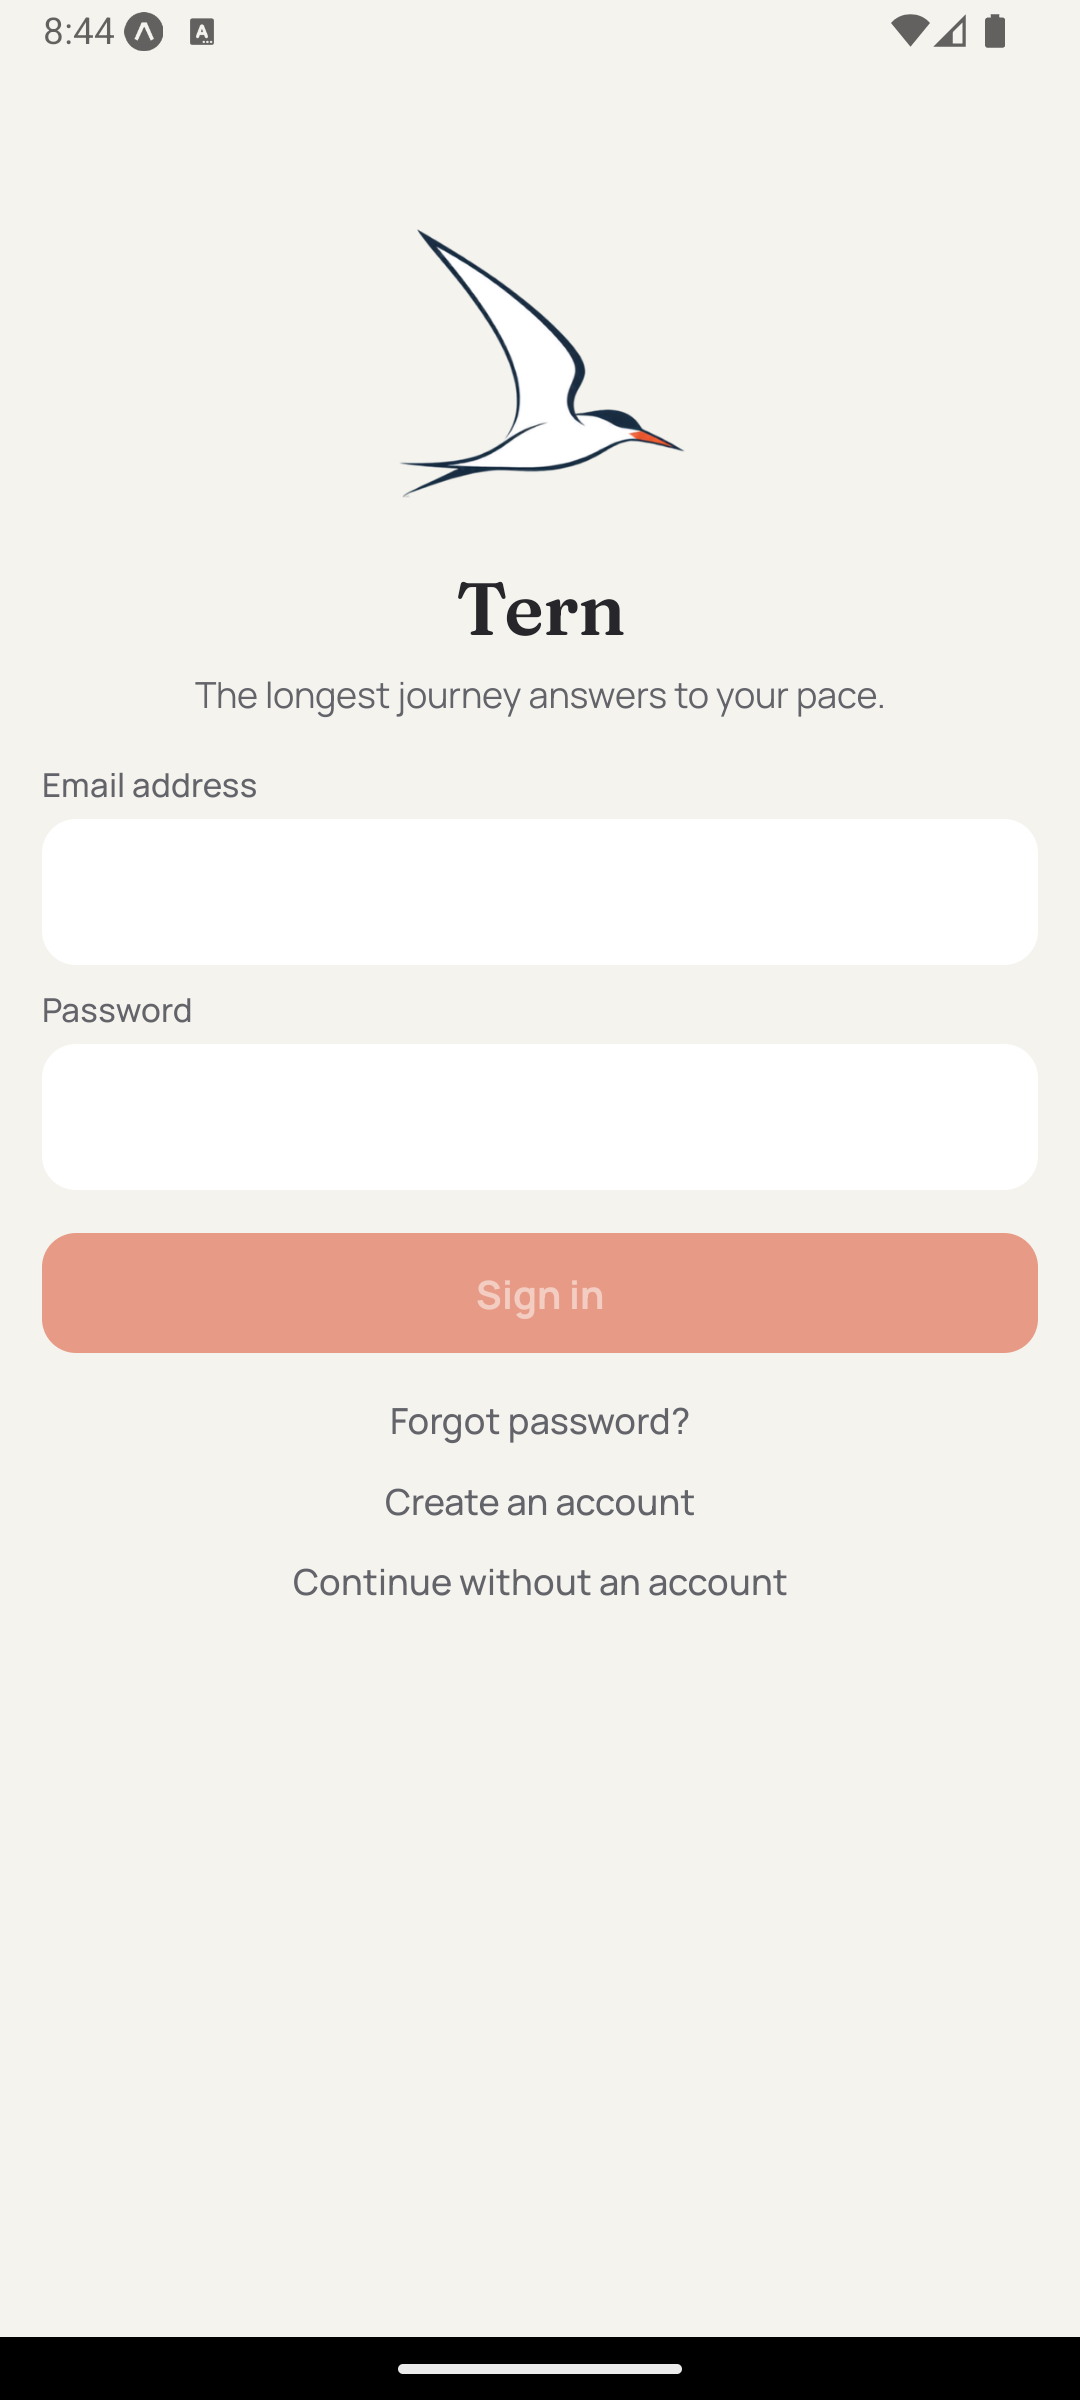
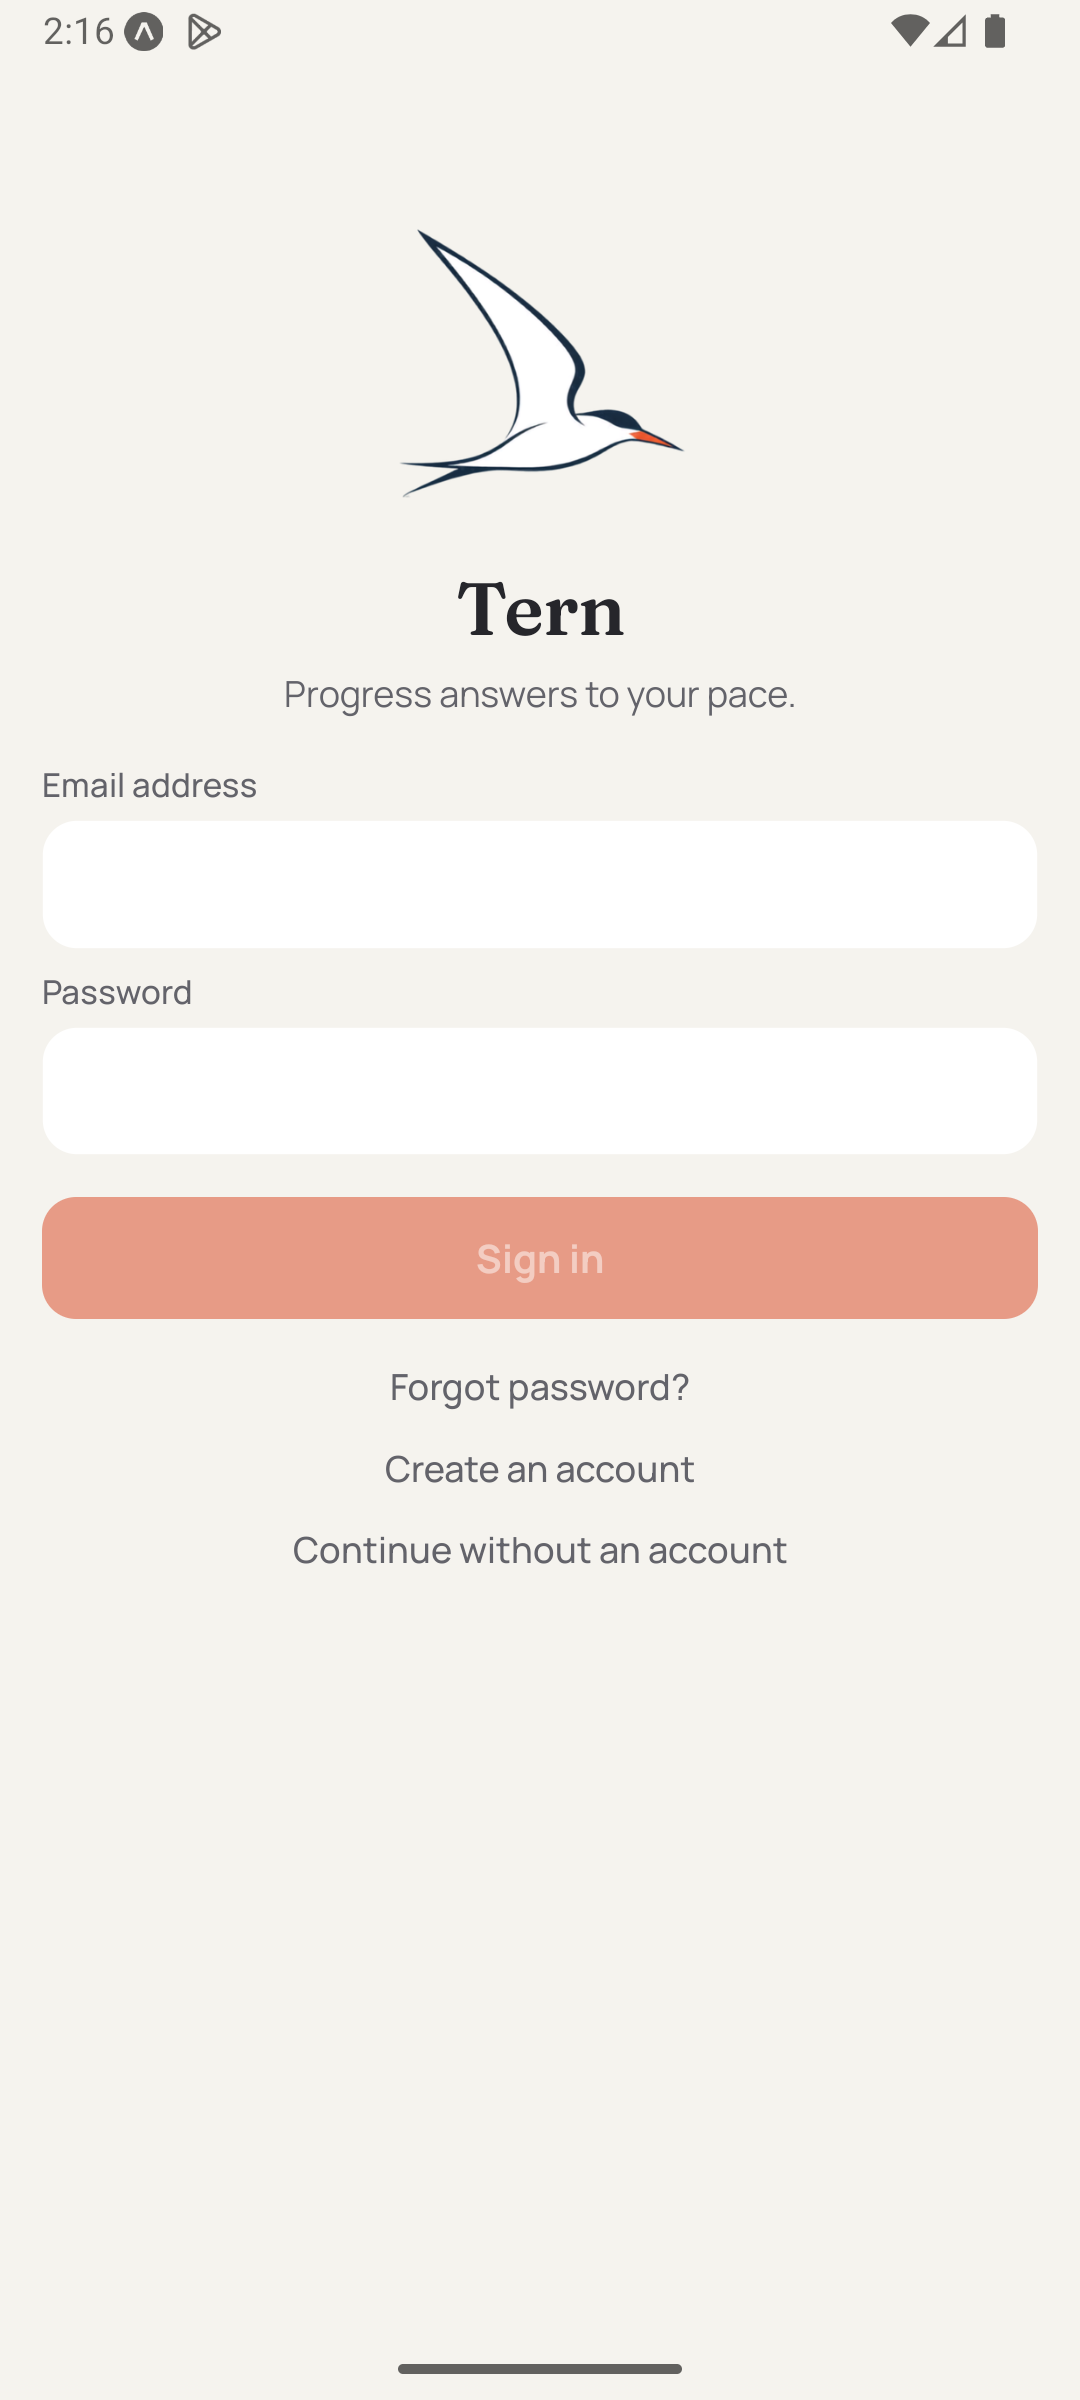
refactor: updating tagline and readme

diff --git a/src/auth/login/LoginScreen.tsx b/src/auth/login/LoginScreen.tsx
@@ -34,7 +34,7 @@ export default function LoginScreen({
     <AuthLayout
       showMark
       title='Tern'
-      subtitle='The longest journey answers to your pace.'
+      subtitle='Progress answers to your pace.'
     >
       <AuthBanner variant='error' message={error || null} />
       <AuthBanner variant='info' message={infoMessage ?? null} />

diff --git a/README.md b/README.md
@@ -1,19 +1,15 @@
 # Tern
 
-**Move, eat, rest. A kinder tracker for the life you're actually living.**
+**Progress answers to your pace.**
 
 [![CI](https://github.com/a-thread/tern/actions/workflows/ci.yml/badge.svg)](https://github.com/a-thread/tern/actions/workflows/ci.yml)
-![Platform: Android](https://img.shields.io/badge/platform-Android-3DDC84)
+![Platform: Android | iOS](https://img.shields.io/badge/platform-Android%20%7C%20iOS-3DDC84)
 ![Expo SDK 54](https://img.shields.io/badge/Expo-SDK%2054-000020)
 ![TypeScript](https://img.shields.io/badge/TypeScript-strict-3178C6)
 
-Tern is a health tracker for steps, food, weight, water and mood, inspired by the Arctic
-tern, the bird with the longest regular migration on Earth. Each day you show up, your
-tern travels a little further along its journey.
+Tern is a health tracker built around movement and inspired by the Arctic tern, the bird with the longest regular migration on Earth. Each day you show up, your tern travels a little further along its journey.
 
-Waypoints are earned for things within reach: meeting your step goal, logging your meals,
-taking a rest day. **Weight and calories never earn or lose anything.** They're there to
-inform you, with no verdict attached.
+Progress is measured in "Waypoints", which you earn by showing up for the habits YOU choose. As you keep at them, your tern moves along its route, reaching milestones on the way. Waypoints are never about the numbers: a weigh-in earns the same whatever the scale says, and calorie totals don't earn or cost you anything.
 
 | ![The Today tab](assets/store/home.png) | ![The Food tab](assets/store/food.png) | ![The Journey tab](assets/store/journey.png) | ![The Trends tab](assets/store/trends.png) |
 | :-------------------------------------: | :------------------------------------: | :------------------------------------------: | :----------------------------------------: |
@@ -21,30 +17,56 @@ inform you, with no verdict attached.
 
 ## Features
 
-- **Rewards for behavior only.** Waypoints are milestones on a map. Reach the Weddell Sea
-  and your tern turns north for home, then sets off again, so the journey never runs out.
-- **Rest counts.** A rest day counts as showing up and the streak carries through it.
-- **Optional numbers.** Hide calories, turn off "remaining today", turn weight off.
-  Nothing warns you for going over, and exercise never earns food back.
-- **Food without a verdict.** Search everyday foods (USDA) and packaged products (Open
-  Food Facts), scan barcodes, save meals, or re-log yesterday's dinner in a tap.
-- **Steps from Health Connect.** Read on the device and never uploaded.
-- **Your data is yours.** No ads, nothing sold. Export everything as JSON, or delete your
-  data or account from Settings. No account is needed: without one, everything is kept
-  on the phone.
+Track all the things that help you meet your goals:
+
+- **Movement**
+  - set a daily goal and connect Health Connect or Apple Health
+  - log workouts and how hard they felt
+  - take rest days that preserve your momentum
+- **Food**
+  - track calories, macros or neither!
+    - nothing warns you for going over, and exercise never earns food back
+  - control how food is displayed:
+    - foods get a NOVA processing level as information, never a judgment
+    - decide whether to display NOVA processing numbers, colors or neither
+    - hide calories so that numbers don't keep you from showing up
+  - search everyday foods (USDA) and packaged products (Open Food Facts)
+  - scan a barcode, save meals, or re-log yesterday's dinner in a tap
+  - opt into check-ins after meals to see how each one leaves you feeling
+- **Weight** (optional)
+  - track daily, weekly or neither!
+  - skip a weigh-in if you need to
+  - gain, lose or hold steady: your log is there for whatever goal you set
+- **Water** (optional)
+  - customizable daily goal tracking
+  - reminders on a schedule that suits you
+- **Mood and stress** (optional)
+  - a quick daily check-in to see how you're doing over time
+- **Medication** (optional)
+  - add as many as you need
+  - customize timing to daily or weekly
+  - control reminders
+- **Waypoints for showing up**
+  - earned for showing up for the habits you choose
+  - reach the Weddell Sea and your tern heads home, then sets off again, so the journey never ends
+- **Your data is yours**
+  - no ads, nothing sold
+  - no account required: stay anonymous and keep everything on your device
+  - create an account with Tern Plus to keep your data on a secure server
+  - export everything, or delete it any time
 
 ## Tech stack
 
-| Layer      | Choice                                                                   |
-| ---------- | ------------------------------------------------------------------------ |
-| App        | [Expo](https://expo.dev) SDK 54, React Native 0.81, React 19, TypeScript |
-| Navigation | React Navigation 7 (bottom tabs + native stack)                          |
-| Backend    | [Supabase](https://supabase.com) (Postgres, auth, row-level security)    |
-| Steps      | Android Health Connect via `react-native-health-connect`                 |
-| Food data  | Open Food Facts, USDA FoodData Central                                   |
-| Purchases  | [RevenueCat](https://www.revenuecat.com) (`react-native-purchases`)      |
-| Tests      | Jest, `jest-expo`, React Native Testing Library                          |
-| Builds     | EAS Build, triggered from GitHub Actions                                 |
+| Layer      | Choice                                                                                              |
+| ---------- | --------------------------------------------------------------------------------------------------- |
+| App        | [Expo](https://expo.dev) SDK 54, React Native 0.81, React 19, TypeScript                            |
+| Navigation | React Navigation 7 (bottom tabs + native stack)                                                     |
+| Backend    | [Supabase](https://supabase.com) (Postgres, auth, row-level security)                               |
+| Steps      | Health Connect (`react-native-health-connect`), Apple Health (`@kingstinct/react-native-healthkit`) |
+| Food data  | Open Food Facts, USDA FoodData Central                                                              |
+| Purchases  | [RevenueCat](https://www.revenuecat.com) (`react-native-purchases`)                                 |
+| Tests      | Jest, `jest-expo`, React Native Testing Library                                                     |
+| Builds     | EAS Build, triggered from GitHub Actions                                                            |
 
 With no Supabase keys the app runs against an in-memory backend seeded with sample data,
 so you can work on the UI without setting anything up.
@@ -72,12 +94,12 @@ Health steps need a development client instead of Expo Go: Health Connect on And
 
 Copy [.env.example](.env.example) to `.env` (gitignored). Every variable is optional.
 
-| Variable                        | Purpose                                                            |
-| ------------------------------- | ------------------------------------------------------------------ |
-| `EXPO_PUBLIC_SUPABASE_URL`      | Supabase project URL. Blank runs on local sample data.             |
-| `EXPO_PUBLIC_SUPABASE_ANON_KEY` | Supabase anon key. Safe to ship, since RLS protects the data.      |
-| `EXPO_PUBLIC_HEALTH`            | Set to `1` in a dev build to read Health Connect or Apple Health.  |
-| `EXPO_PUBLIC_USDA_API_KEY`      | Enables everyday-food search. Blank falls back to Open Food Facts. |
+| Variable                                          | Purpose                                                                 |
+| ------------------------------------------------- | ----------------------------------------------------------------------- |
+| `EXPO_PUBLIC_SUPABASE_URL`                        | Supabase project URL. Blank runs on local sample data.                  |
+| `EXPO_PUBLIC_SUPABASE_ANON_KEY`                   | Supabase anon key. Safe to ship, since RLS protects the data.           |
+| `EXPO_PUBLIC_HEALTH`                              | Set to `1` in a dev build to read Health Connect or Apple Health.       |
+| `EXPO_PUBLIC_USDA_API_KEY`                        | Enables everyday-food search. Blank falls back to Open Food Facts.      |
 | `EXPO_PUBLIC_REVENUECAT_ANDROID_KEY` / `_IOS_KEY` | Tern Plus through RevenueCat (dev build). Blank simulates buying, free. |
 
 To run against your own backend, follow [supabase/README.md](supabase/README.md) to create
